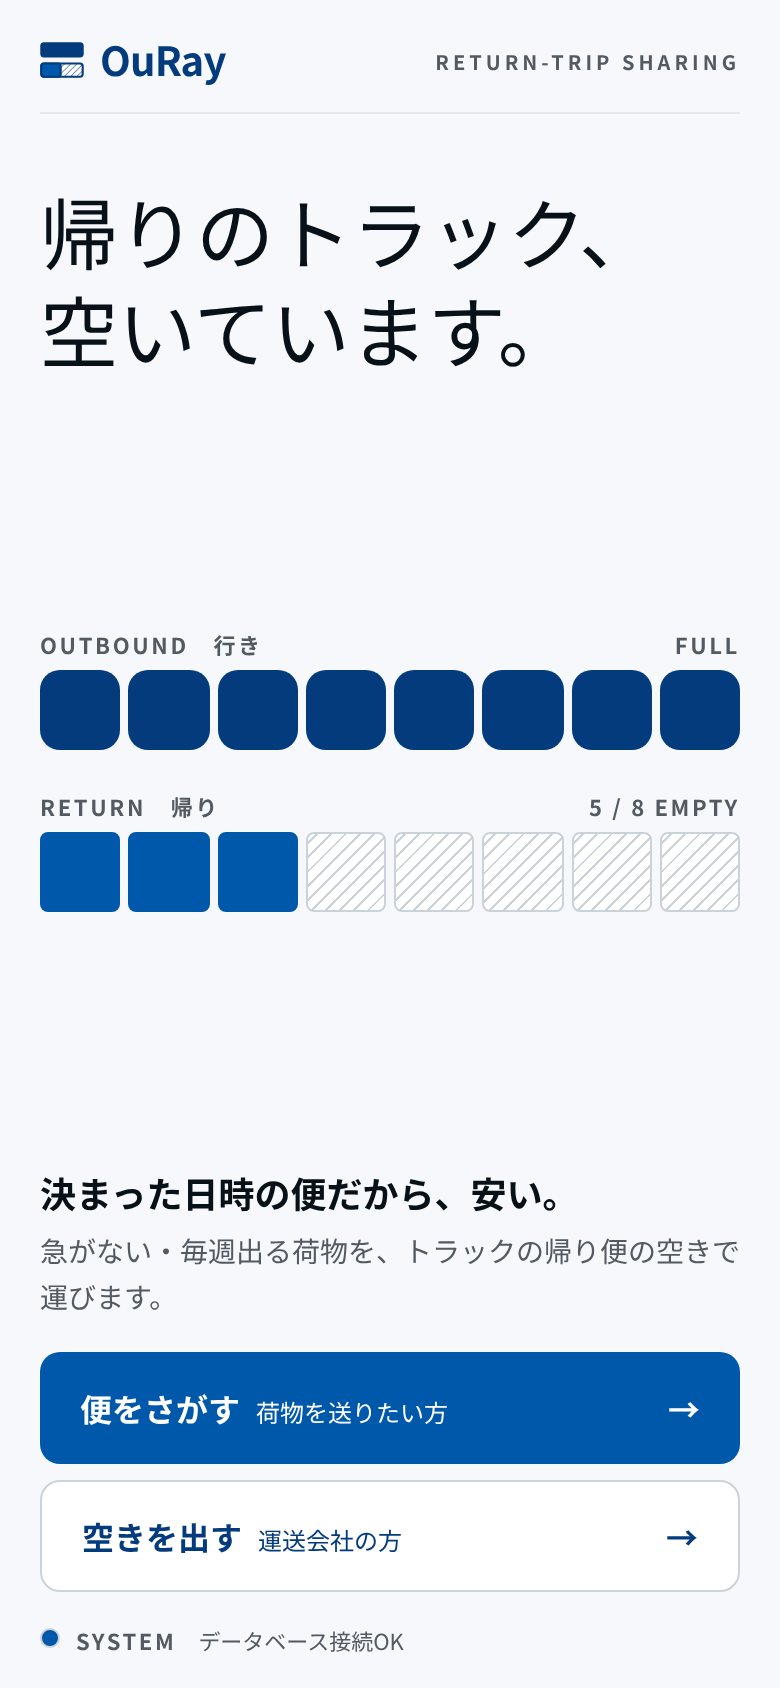
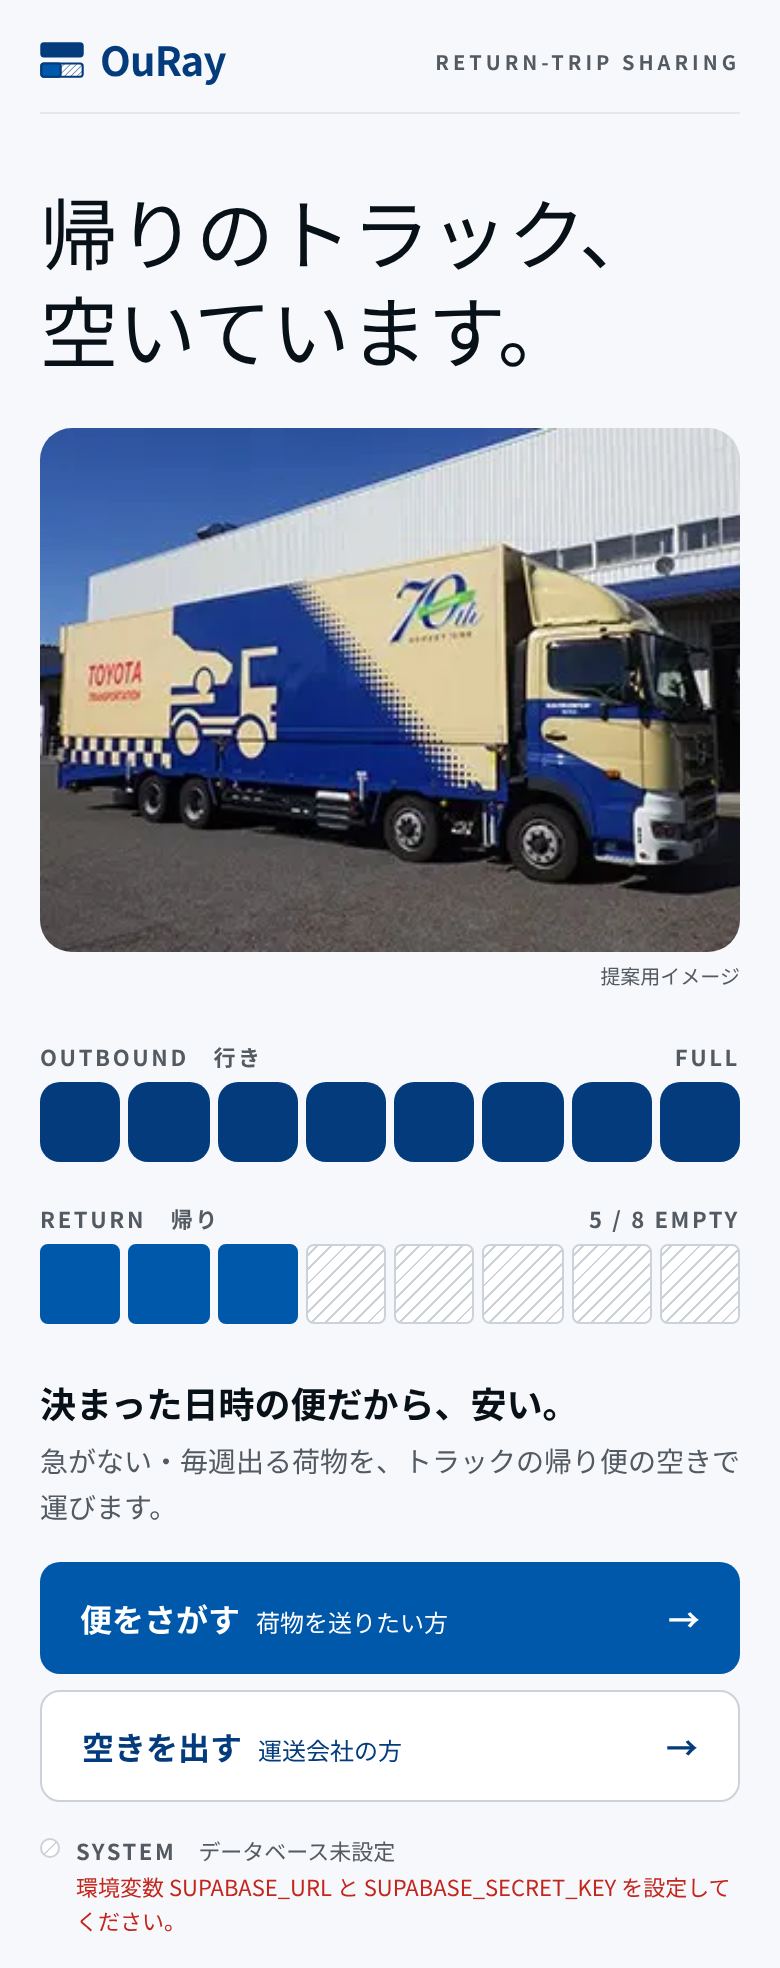
トップページにトラックの写真を追加（トヨタモビリティへの提案用）
Claude-Session: https://claude.ai/code/session_01Vw4yd5tJWYJSwxhi1seWuh

diff --git a/src/app/page.tsx b/src/app/page.tsx
@@ -1,3 +1,4 @@
+import Image from "next/image";
 import Link from "next/link";
 import { Suspense } from "react";
 import { Logo } from "@/components/logo";
@@ -52,7 +53,21 @@ export default function Home() {
         空いています。
       </h1>
 
-      <div className="flex flex-1 items-center py-[4svh]">
+      {/* トヨタモビリティへの提案用の写真（行きは満載、帰りは空き…のトラック） */}
+      <figure className="mt-[3svh]">
+        <Image
+          src="/images/top-truck.jpg"
+          alt="荷台の大きなトラック"
+          width={320}
+          height={240}
+          preload
+          sizes="(max-width: 448px) 100vw, 408px"
+          className="aspect-[4/3] w-full rounded-2xl object-cover"
+        />
+        <figcaption className="mt-1 text-right text-[10px] text-gray">提案用イメージ</figcaption>
+      </figure>
+
+      <div className="flex flex-1 items-center py-[3svh]">
         <TripGraphic />
       </div>
 

diff --git a/README.md b/README.md
@@ -249,3 +249,8 @@ npm test                     # 金額の計算のテスト
 - データベースの操作は、すべてサーバー側（Secret key を持つ Next.js のサーバー処理）で行います
 - 予約の取りすぎは、データベースの関数 `create_booking()` の中で便をロックしてから確認して防ぎます
 - 廃棄物（使用済み紙おむつなど）の予約は、データベースの段階で必ず断ります
+
+## 画像について
+
+- トップページのトラックの写真（`public/images/top-truck.jpg`）は、トヨタモビリティへの提案用に入れたものです。
+  写真にはトヨタ輸送のロゴ・車体デザインが写っています。**一般に公開する前に、写真の使用許可を確認してください**（許可がなければ差し替える）。
